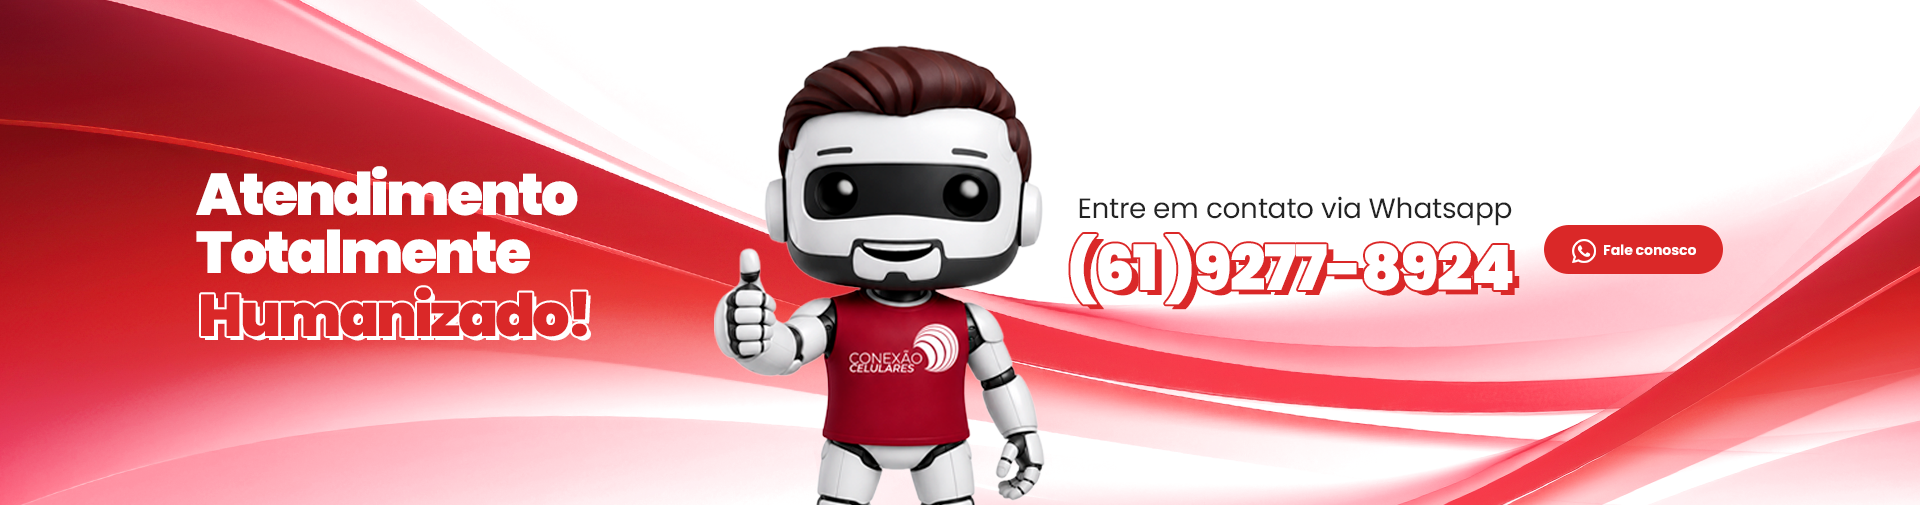
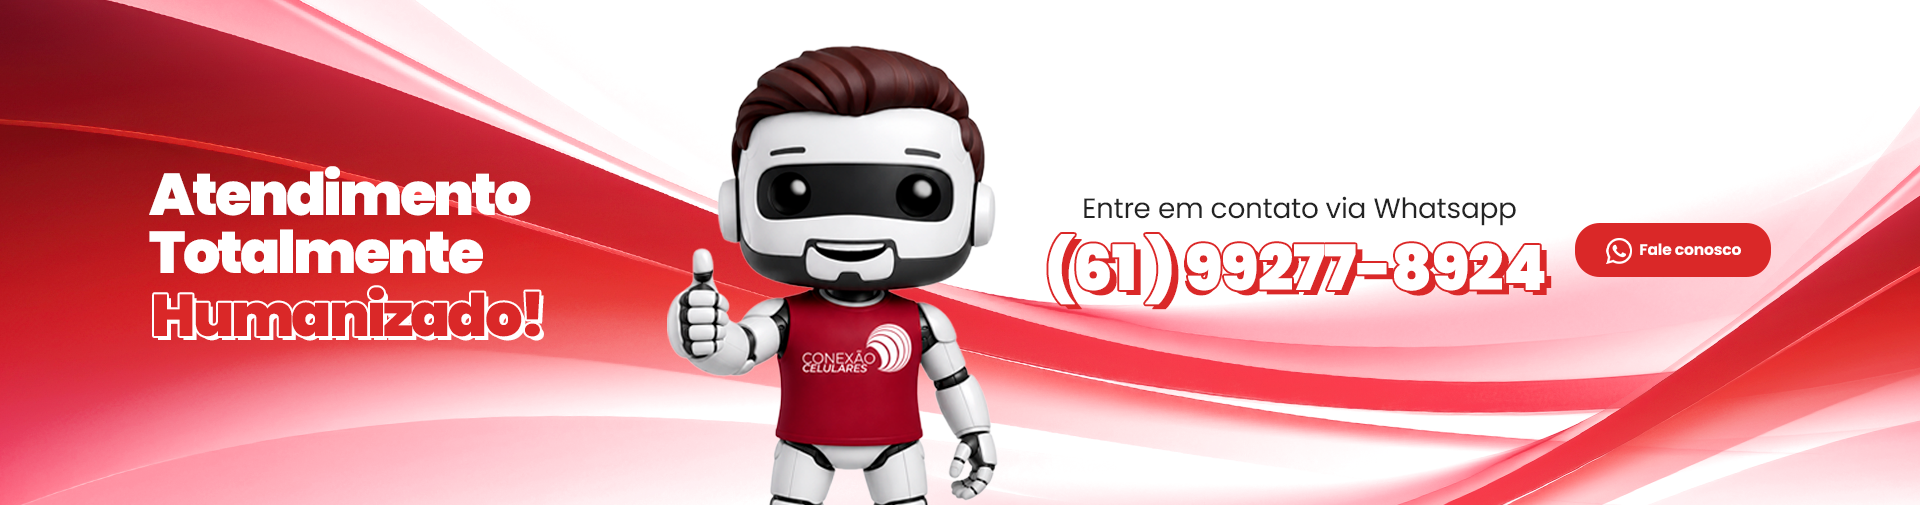
1.0.0.8

Changed region(s): [[0.3438, 0.0891, 0.9375, 1.0], [0.0625, 0.3267, 0.3125, 0.6832]]

diff --git a/scripts/main.js b/scripts/main.js
@@ -66,6 +66,7 @@ function productCardHTML(p, imgIdPrefix) {
 
 function renderCategorySections() {
   const container = document.getElementById('category-sections');
+  if (!container) return;
   container.innerHTML = '';
   CATS.forEach((cat) => {
     if (cat.key === 'seminovos') { container.appendChild(buildSeminovosSection()); return; }
@@ -117,7 +118,7 @@ function buildPromoBanners() {
   const wrap = document.createElement('section');
   wrap.className = 'promo-grid';
   wrap.innerHTML =
-    '<a class="promo-banner" href="' + generalWaLink() + '" target="_blank"><img src="assets/banner-promo.png" alt="Atendimento totalmente humanizado"></a>';
+    '<a class="promo-banner" href="' + generalWaLink() + '" target="_blank"><picture><source media="(max-width:768px)" srcset="assets/banner1-mobile.png"><img src="assets/banner-promo.png" alt="Atendimento totalmente humanizado"></picture></a>';
   return wrap;
 }
 
@@ -216,7 +217,9 @@ function smoothScrollTo(el, target, duration = 900) {
 
 // ---- Views: home / category / brand ----
 function showView(view) {
-  document.getElementById('view-home').classList.toggle('hidden', view !== 'home');
+  const home = document.getElementById('view-home');
+  if (!home) { window.location.href = 'index.html'; return; }
+  home.classList.toggle('hidden', view !== 'home');
   document.getElementById('view-category').classList.toggle('hidden', view !== 'category');
   document.getElementById('view-brand').classList.toggle('hidden', view !== 'brand');
   window.scrollTo(0, 0);
@@ -313,7 +316,7 @@ function initMenus() {
 function initClickDelegation() {
   document.body.addEventListener('click', (e) => {
     const catBtn = e.target.closest('[data-goto-cat]');
-    if (catBtn) { e.preventDefault(); goToCategory(catBtn.dataset.gotoCat); return; }
+    if (catBtn) { if (!document.getElementById('category-sections')) { window.location.href = 'index.html'; return; } e.preventDefault(); goToCategory(catBtn.dataset.gotoCat); return; }
     const brandBtn = e.target.closest('[data-goto-brand]');
     if (brandBtn) { goToBrand(brandBtn.dataset.gotoBrand); return; }
     const home = e.target.closest('[data-goto-home]');

diff --git a/css/styles.css b/css/styles.css
@@ -113,7 +113,7 @@ button{font-family:inherit;cursor:pointer}
 .prod-card:hover{transform:translateY(-6px);box-shadow:0 16px 32px rgba(0,0,0,.10);border-color:#e8cac9}
 .prod-badge{position:absolute;top:12px;left:12px;background:var(--red);color:#fff;font-size:11px;font-weight:700;padding:4px 10px;border-radius:999px;z-index:2}
 .prod-img-wrap{display:flex;align-items:center;justify-content:center;padding:6px}
-.prod-img-wrap img{width:100%;height:130px;object-fit:contain}
+.prod-img-wrap img{width:100%;height:200px;object-fit:contain}
 .prod-name{font-size:14px;font-weight:700;color:var(--ink);min-height:38px;line-height:1.3}
 .prod-price-block{border-top:1px solid var(--border);margin-top:4px;padding-top:10px}
 .prod-price{font-size:19px;font-weight:800;color:var(--red)}
@@ -131,6 +131,7 @@ button{font-family:inherit;cursor:pointer}
 .promo-grid{max-width:1920px;margin:0 auto;padding:40px 24px 0;display:block}
 .promo-banner{position:relative;border-radius:20px;overflow:hidden;aspect-ratio:1920/505;height:auto;display:block}
 .promo-banner:hover img{transform:scale(1.06)}
+.promo-banner picture{display:block;width:100%;height:100%}
 .promo-banner img{width:100%;height:100%;object-fit:cover}
 
 /* seminovos bento */
@@ -253,7 +254,7 @@ footer{background:#fff;color:var(--ink);margin-top:64px;padding:0px 60px 0px;pos
   .card-header-title{font-size:15px}
   .row-scroll{padding:14px 8px 4px;gap:12px}
   #row-wrap-eletronicos{padding:14px 8px 4px !important;gap:12px;flex-direction:column}
-  #row-wrap-eletronicos .promo-inline-card{width:100%;flex:none;min-width:0;order:2}
+  #row-wrap-eletronicos .promo-inline-card{width:auto;flex:none;min-width:0;order:2;margin:0 -24px}
   #row-wrap-eletronicos #row-eletronicos{order:1}
   .card-header-right .arrow-btn{display:none}
 
@@ -264,7 +265,7 @@ footer{background:#fff;color:var(--ink);margin-top:64px;padding:0px 60px 0px;pos
 
   /* promo banners */
   .promo-grid{padding:24px 16px 0}
-  .promo-banner{aspect-ratio:1920/505;height:auto}
+  .promo-banner{aspect-ratio:480/600;height:auto}
 
   /* seminovos bento */
   .bento-grid{grid-template-columns:repeat(2,1fr);padding:16px 8px;gap:12px}